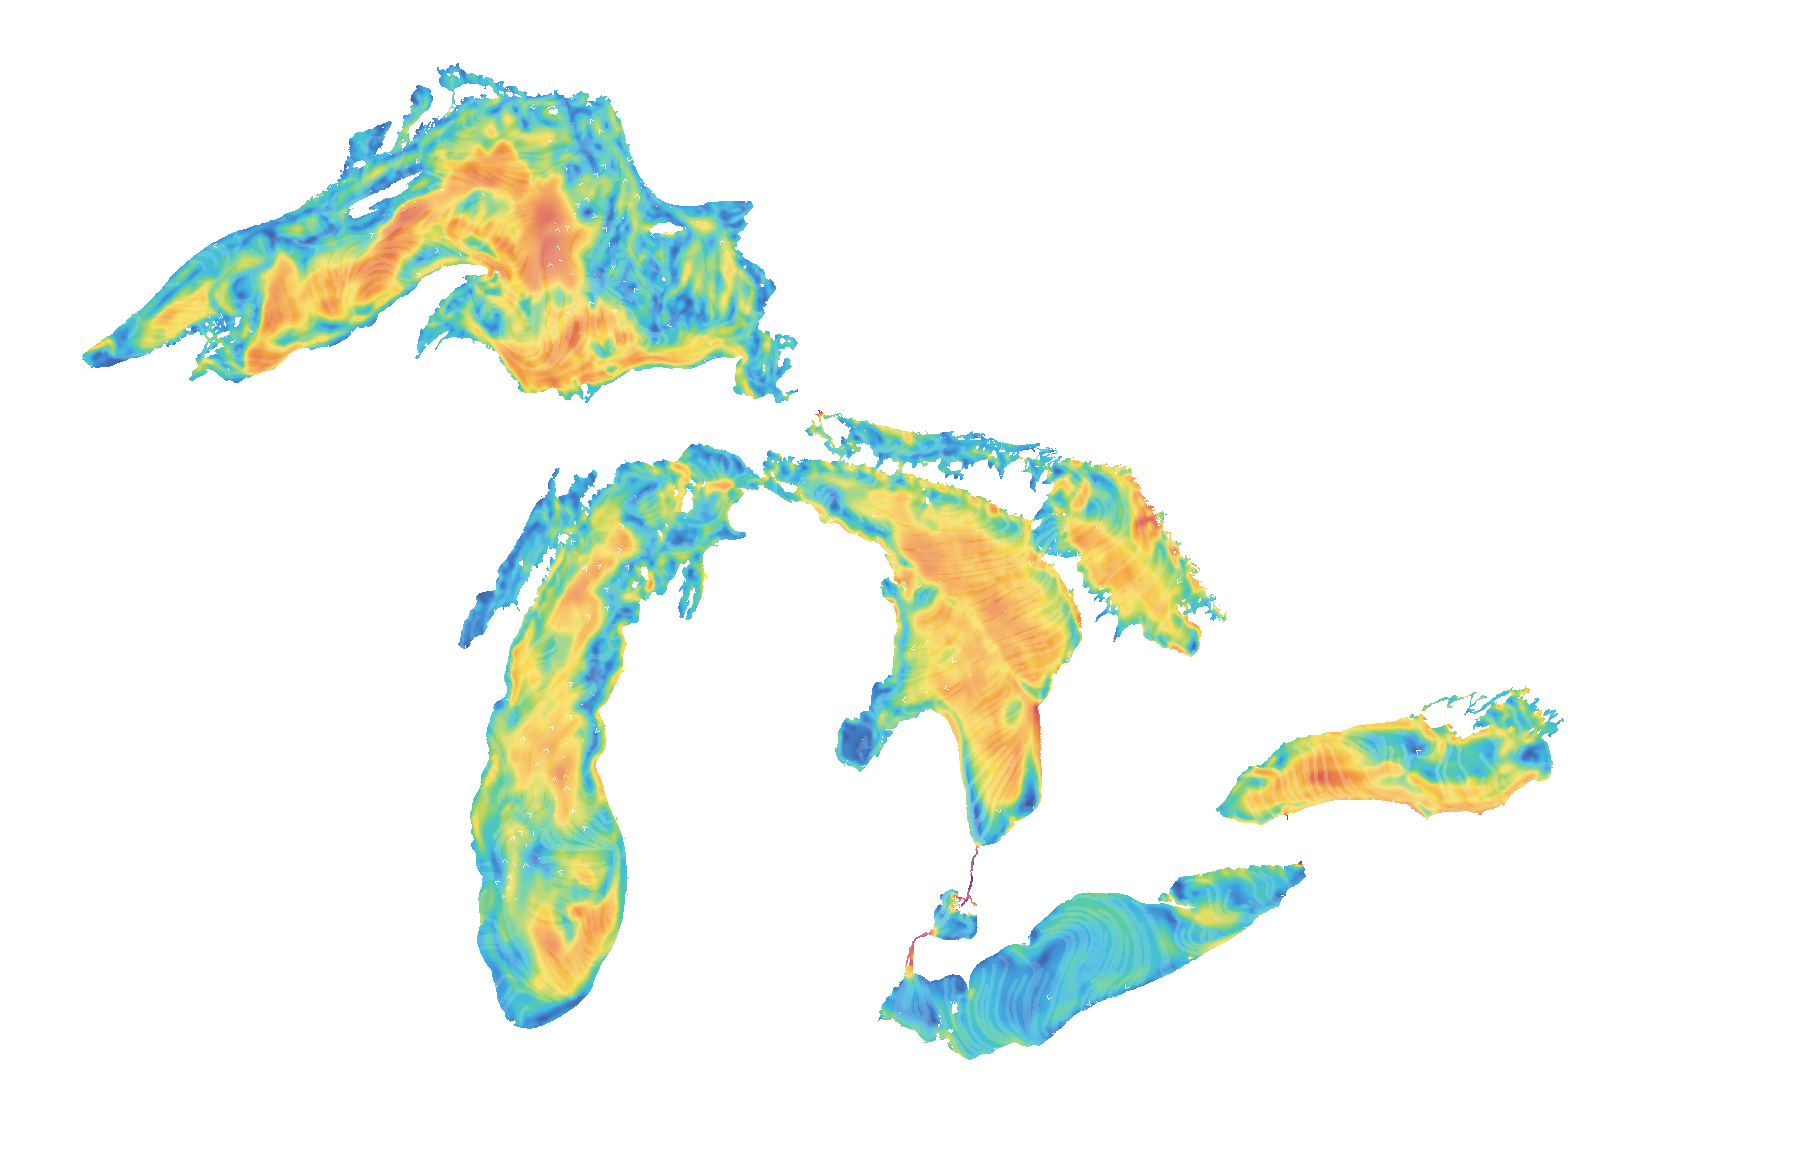
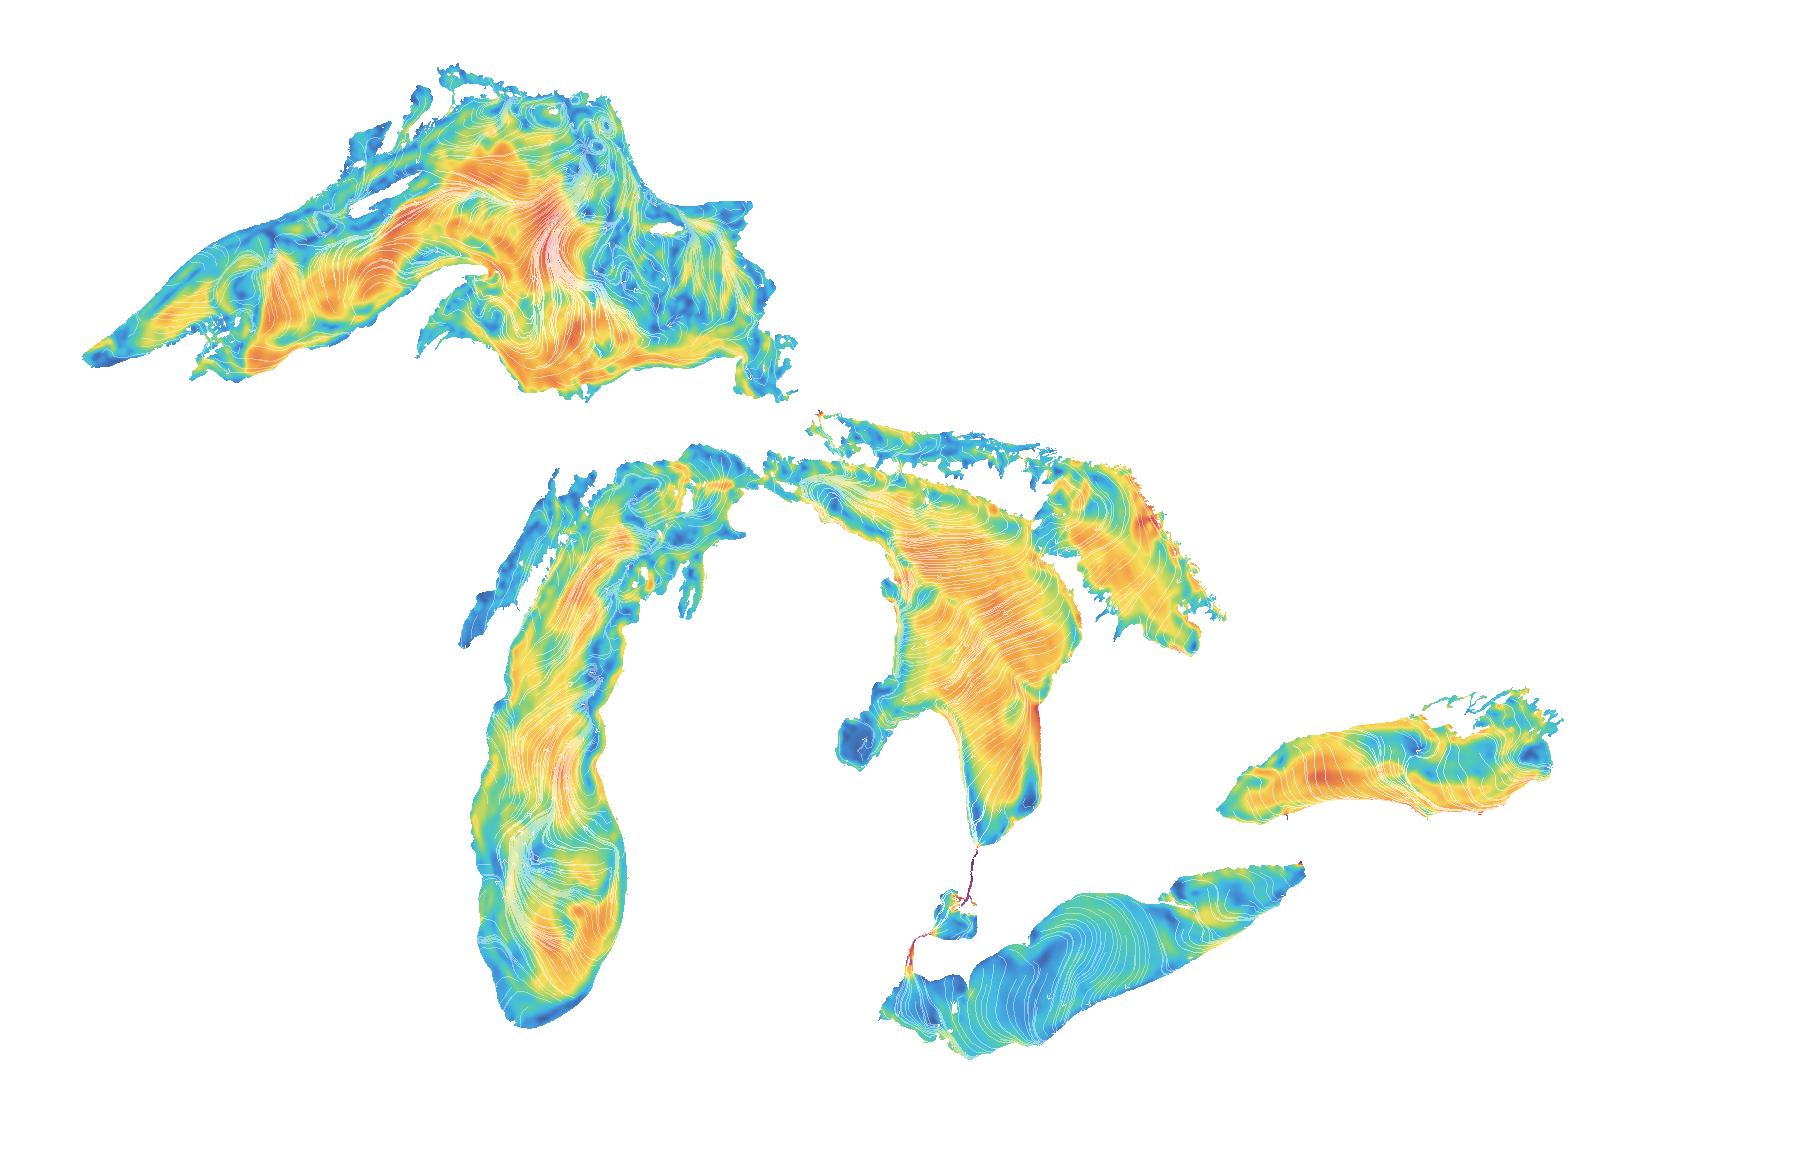
Revert surface currents to original 1px streamlets

diff --git a/scripts/build_surface_currents.py b/scripts/build_surface_currents.py
@@ -434,8 +434,8 @@ def paint_flow_arrows(rgba, uu, vv, seed_step=11, river_seed_step=5,
                       sep_px=3.0, river_sep_px=2.0,
                       head_every=2, head_sep_px=5.0,
                       river_head_sep_px=3.5,
-                      line_width=4,
-                      line_base_alpha=30, line_bright_alpha=35,
+                      line_width=1,
+                      line_base_alpha=90, line_bright_alpha=110,
                       head_alpha=230, head_len=4.0):
     """Dense flow-streak field with micro direction heads, rasterized.
 
